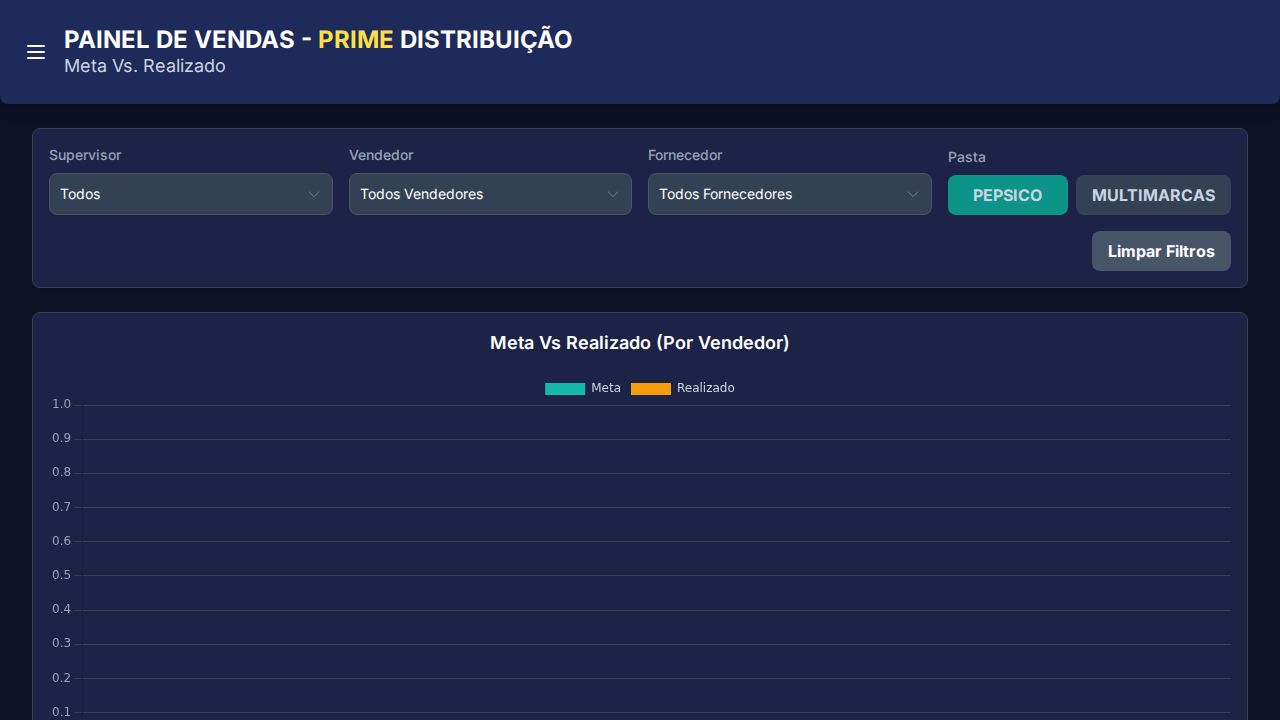
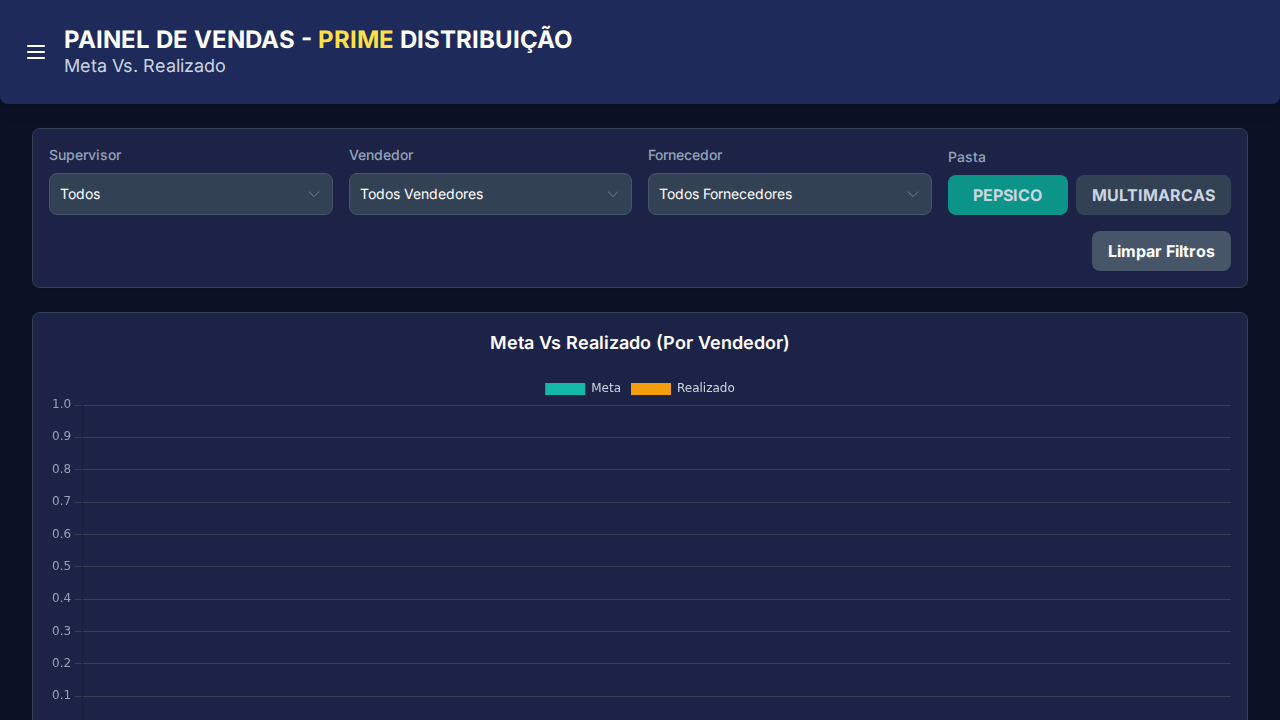
Finalize Meta Vs. Realizado page: Fix chart aggregation and table header sticking.

diff --git a/app.js b/app.js
@@ -3045,25 +3045,28 @@
             const tableHead = document.getElementById('meta-realizado-table-head');
             const tableBody = document.getElementById('meta-realizado-table-body');
 
-            // Build Headers
+            // Build Headers with sticky positioning
             let headerHTML = `
                 <tr>
-                    <th rowspan="2" class="px-4 py-3 bg-slate-800 text-left border-r border-b border-slate-700 w-48 sticky left-0 z-20">Vendedor</th>
-                    <th rowspan="2" class="px-4 py-3 bg-slate-800 text-center border-r border-b border-slate-700 w-32">Meta Total</th>
-                    <th rowspan="2" class="px-4 py-3 bg-slate-800 text-center border-r border-b border-slate-700 w-32">Realizado Total</th>
+                    <th rowspan="2" class="px-4 py-3 bg-slate-800 text-left border-r border-b border-slate-700 w-48 sticky left-0 z-30" style="top: 0;">Vendedor</th>
+                    <th rowspan="2" class="px-4 py-3 bg-slate-800 text-center border-r border-b border-slate-700 w-32 sticky z-20" style="top: 0;">Meta Total</th>
+                    <th rowspan="2" class="px-4 py-3 bg-slate-800 text-center border-r border-b border-slate-700 w-32 sticky z-20" style="top: 0;">Realizado Total</th>
             `;
 
-            // Week Headers (Top Row)
+            // Week Headers (Top Row) - Sticky Top 0
             weeks.forEach((week, i) => {
-                headerHTML += `<th colspan="2" class="px-2 py-2 bg-slate-800 text-center border-r border-b border-slate-700">Semana ${i + 1} (${week.workingDays}d)</th>`;
+                headerHTML += `<th colspan="2" class="px-2 py-2 bg-slate-800 text-center border-r border-b border-slate-700 sticky z-20" style="top: 0;">Semana ${i + 1} (${week.workingDays}d)</th>`;
             });
             headerHTML += `</tr><tr>`;
 
-            // Week Sub-headers (Bottom Row)
+            // Week Sub-headers (Bottom Row) - Sticky Top ~45px (height of first row)
+            // Using approx 41px based on standard padding/font
+            const secondRowTop = "41px";
+
             weeks.forEach(() => {
                 headerHTML += `
-                    <th class="px-2 py-2 bg-slate-800/80 text-center border-r border-b border-slate-700 text-[10px] text-slate-400 w-24">Meta</th>
-                    <th class="px-2 py-2 bg-slate-800/80 text-center border-r border-b border-slate-700 text-[10px] text-slate-400 w-24">Realizado</th>
+                    <th class="px-2 py-2 bg-slate-800/90 text-center border-r border-b border-slate-700 text-[10px] text-slate-400 w-24 sticky z-20" style="top: ${secondRowTop};">Meta</th>
+                    <th class="px-2 py-2 bg-slate-800/90 text-center border-r border-b border-slate-700 text-[10px] text-slate-400 w-24 sticky z-20" style="top: ${secondRowTop};">Realizado</th>
                 `;
             });
             headerHTML += `</tr>`;
@@ -3123,25 +3126,25 @@
                 charts[chartId].destroy();
             }
 
-            const labels = data.map(d => getFirstName(d.name));
-            const metaValues = data.map(d => d.metaTotal);
-            const realValues = data.map(d => d.realTotal);
+            // Aggregate totals for the chart (Total Meta vs Total Realizado)
+            const totalMeta = data.reduce((sum, d) => sum + d.metaTotal, 0);
+            const totalReal = data.reduce((sum, d) => sum + d.realTotal, 0);
 
             charts[chartId] = new Chart(canvas, {
                 type: 'bar',
                 data: {
-                    labels: labels,
+                    labels: ['Total'],
                     datasets: [
                         {
                             label: 'Meta',
-                            data: metaValues,
+                            data: [totalMeta],
                             backgroundColor: '#14b8a6', // Teal
                             barPercentage: 0.6,
                             categoryPercentage: 0.8
                         },
                         {
                             label: 'Realizado',
-                            data: realValues,
+                            data: [totalReal],
                             backgroundColor: '#f59e0b', // Amber/Yellow
                             barPercentage: 0.6,
                             categoryPercentage: 0.8
